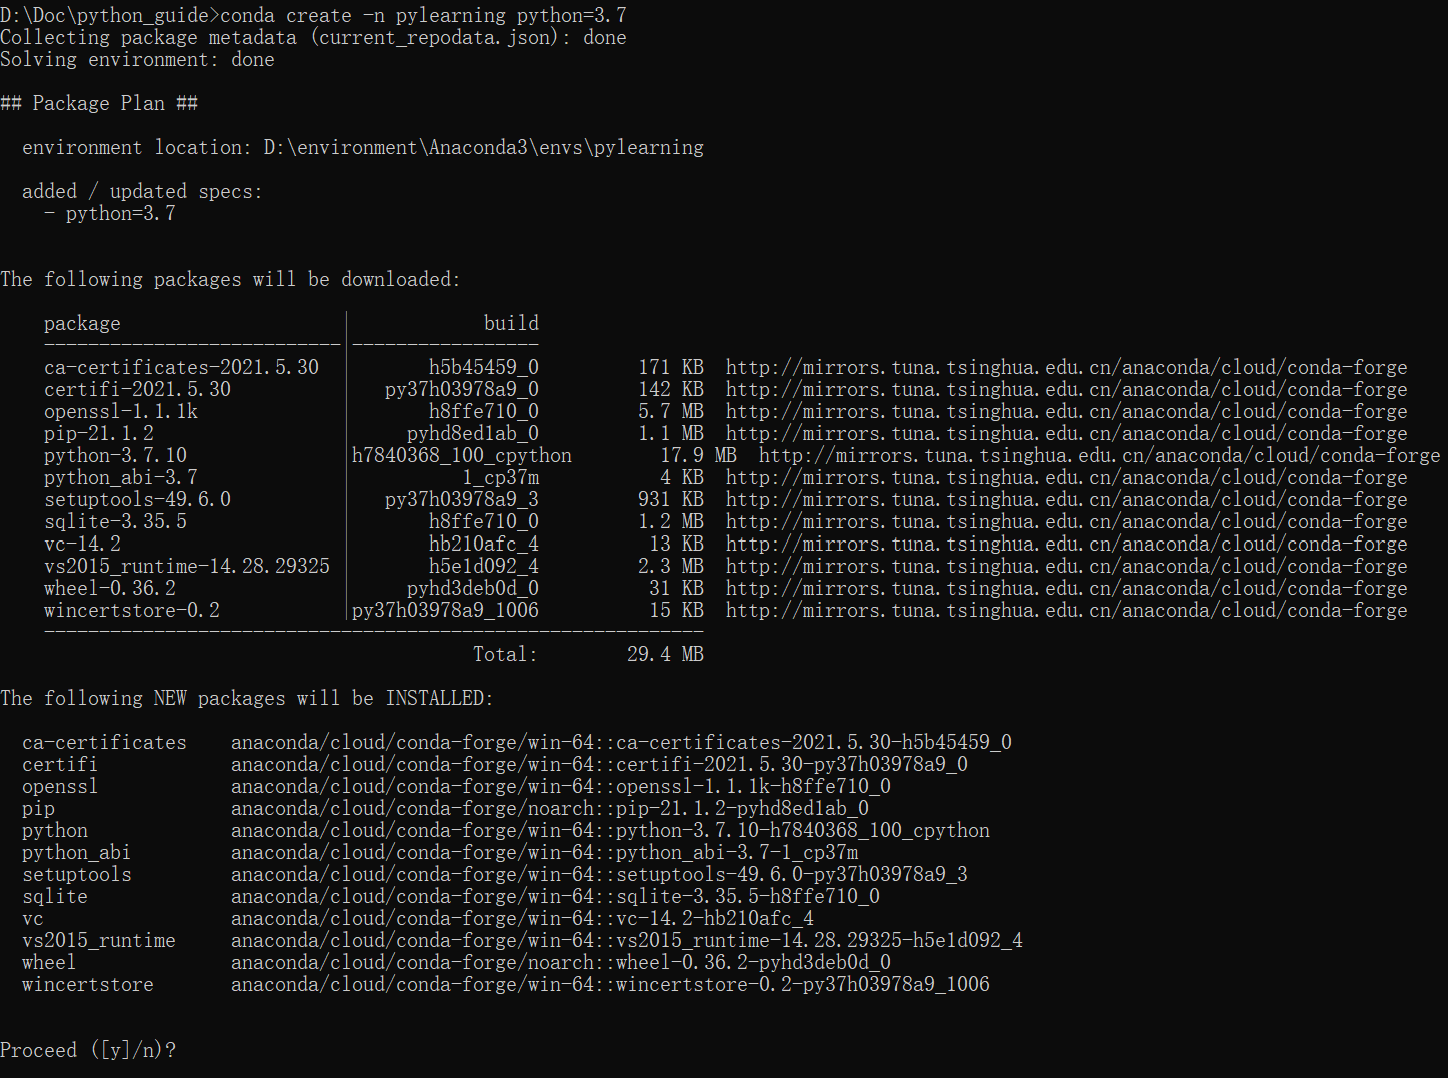
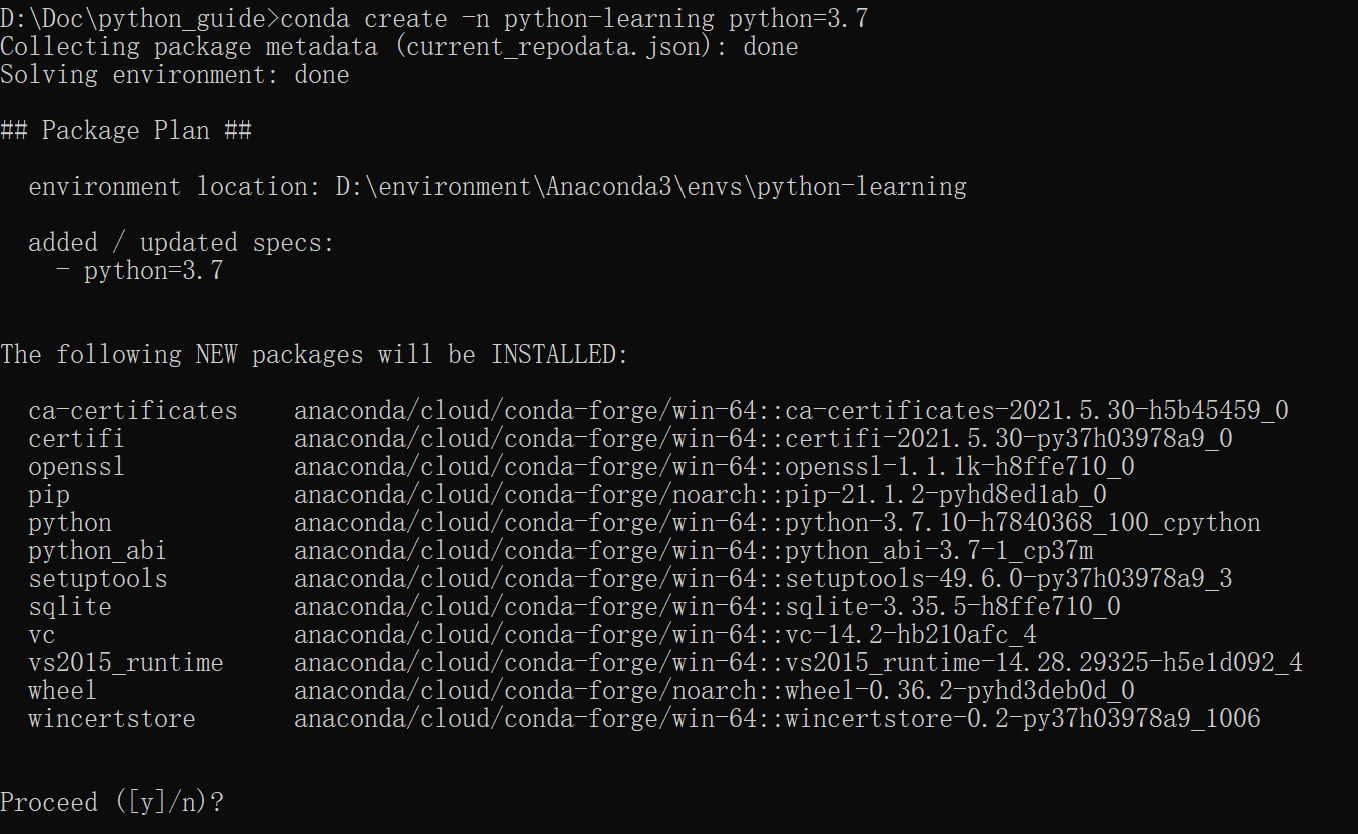
aa

Changed region(s): [[0.0, 0.0, 1.0, 0.9976]]

diff --git a/python简介.md b/python简介.md
@@ -72,9 +72,9 @@ anaconda官网：https://www.anaconda.com/
     ```
     这样我们就完成了conda换源。
 
-3. 现在我们可以使用conda来创建自己的虚拟环境了。在命令行窗口输入`conda create -n environment_name python=X.X`，其中`environment_name`是你要创建的虚拟环境的名称，建议根据创建此环境的目的来命名，比如我们的目的是学习python，就可以将`environment_name`替换为`pylearning`，当然，命名风格因人而异。`X.X`是我们要使用的python解释器版本，比如`2.7`、`3.6`、`3.7`、`3.8`、`3.9`，也可以不写`pyhton=X.X`，此时默认使用anaconda的默认python版本。
+3. 现在我们可以使用conda来创建自己的虚拟环境了。在命令行窗口输入`conda create -n environment_name python=X.X`，其中`environment_name`是你要创建的虚拟环境的名称，建议根据创建此环境的目的来命名，比如我们的目的是学习python，就可以将`environment_name`替换为`python-learning`，当然，命名风格因人而异。`X.X`是我们要使用的python解释器版本，比如`2.7`、`3.6`、`3.7`、`3.8`、`3.9`，也可以不写`pyhton=X.X`，此时默认使用anaconda的默认python版本。
 
-    我们这里创建一个名为`pylearning`的虚拟环境，输入命令`conda create -n pylearning python=3.7`，按下enter键，若出现`CondaHTTPError:HTTP 000 CONNECTION FAILED`字样的提示，这是网络连接出现了错误，解决办法如下：
+    我们这里创建一个名为`python-learning`的虚拟环境，输入命令`conda create -n python-learning python=3.7`，按下enter键，若出现`CondaHTTPError:HTTP 000 CONNECTION FAILED`字样的提示，这是网络连接出现了错误，解决办法如下：
 
     具体步骤如下所示：
 
@@ -90,8 +90,12 @@ anaconda官网：https://www.anaconda.com/
     show_channel_urls: true
     ```
 
-    保存并关闭文件，再重新输入`conda create -n pylearning python=3.7`，按下enter键，出现一下提示，我们再输入y，表示确定创建此虚拟环境，最后等待conda帮我们创建虚拟环境就可以了，如下图所示。
-    ![conda创建虚拟环境1]()
+    保存并关闭文件，再重新输入`conda create -n python-learning python=3.7`，按下enter键，出现一下提示，我们再输入y，表示确定创建此虚拟环境，最后等待conda帮我们创建虚拟环境就可以了，如下图所示。
+    ![conda创建虚拟环境1](https://github.com/mywrong/Python-Guide/blob/master/image/anaconda/conda%E5%88%9B%E5%BB%BA%E8%99%9A%E6%8B%9F%E7%8E%AF%E5%A2%831.png?raw=true)
+    
+    这里询问我们是否要继续创建虚拟环境，我们输入y表示确认。
+
+    conda自动下载完一些必须的库后就完成了安装
 
 
 
